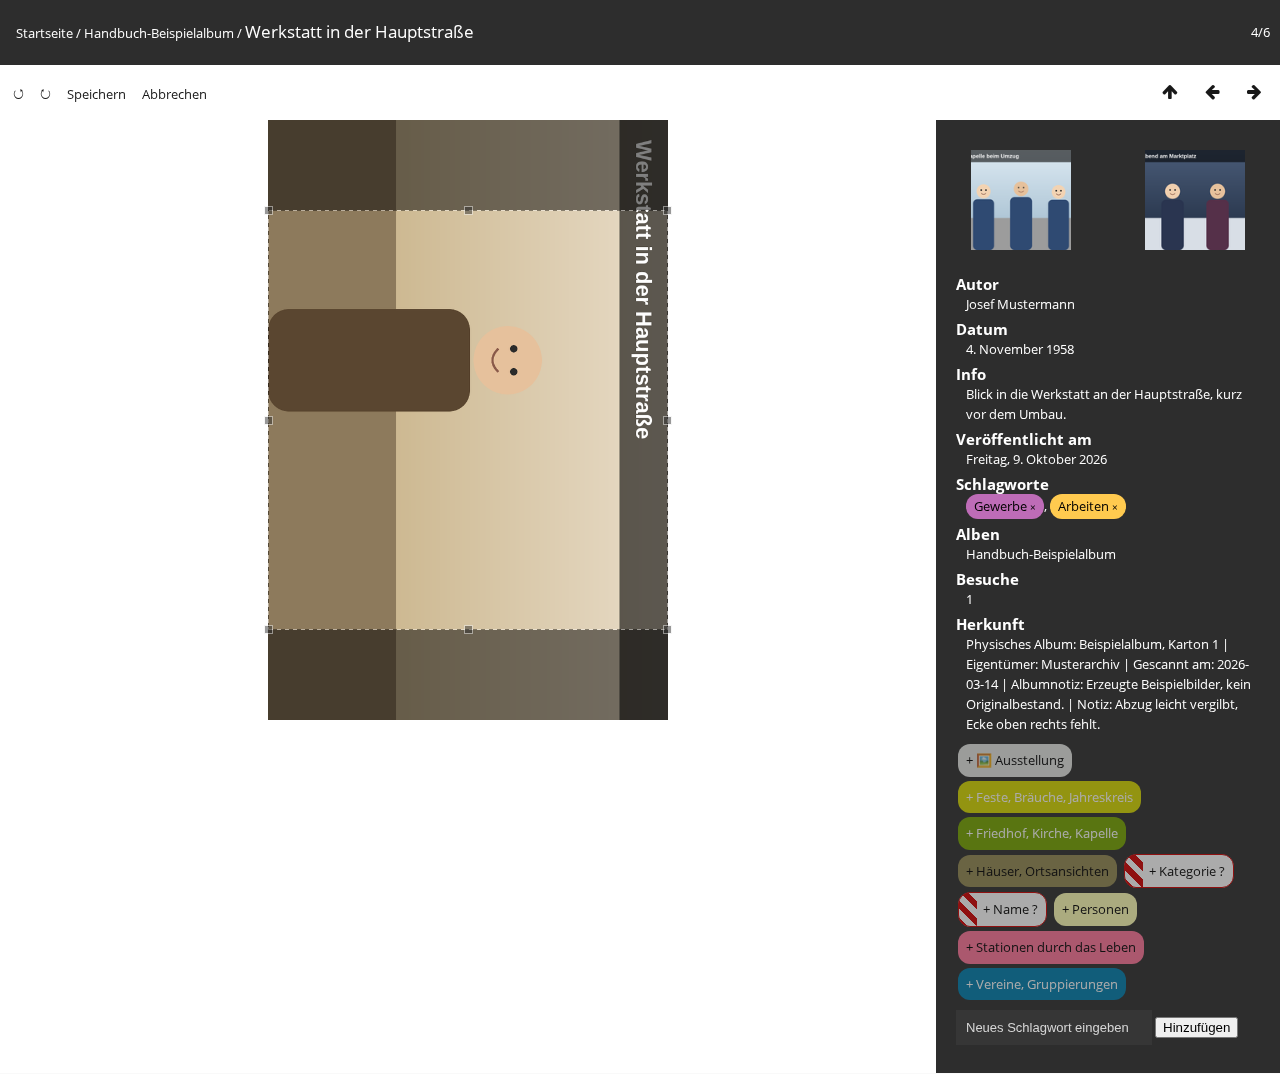
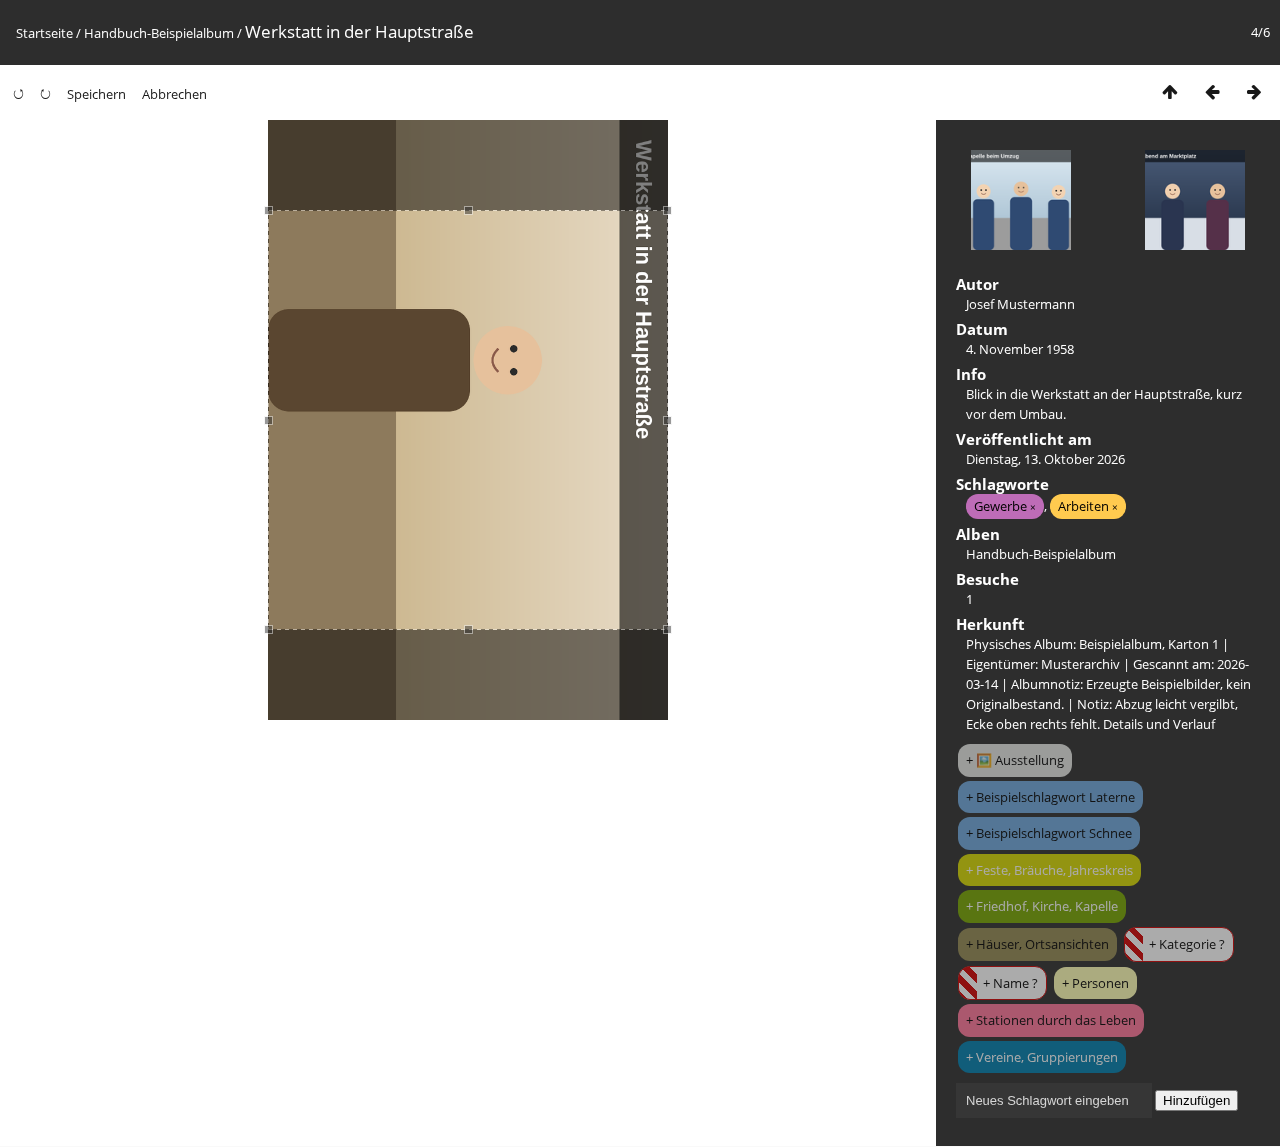
handbuch: re-shoot 26 with Drehen/Zuschneiden, 17 and 22 with the current sidebar
Shot 26 lacked the Drehen/Zuschneiden button a normal account has since
decision 0059; 07-fotoseite.html names it and links to 06-drehen.html.
17 and 22 gained photoinfo's rows and the Details und Verlauf link.
Every other re-shot image differed only by timestamps, demo badges or
churn and was reverted. Task 04 of change 2026-10-12-handbook-catch-up,
which also records tasks 04 and 05 as follow-ups in the design.

diff --git a/handbuch/07-fotoseite.html b/handbuch/07-fotoseite.html
@@ -15,9 +15,14 @@
 </p>
 
 <figure>
-  <img src="assets/screenshots/26-fotoseite-leiste.png" alt="Die Leiste über dem Foto. In der Mitte die Schaltflächen Minus, Einpassen, 100 % und Plus, rechts die Pfeile zum Blättern." />
-  <figcaption>Die Leiste über dem Foto, in der Mitte Minus, Einpassen, 100 % und Plus.</figcaption>
+  <img src="assets/screenshots/26-fotoseite-leiste.png" alt="Die Leiste über dem Foto. In der Mitte die Schaltflächen Minus, Einpassen, 100 % und Plus, daneben Drehen/Zuschneiden, rechts die Pfeile zum Blättern." />
+  <figcaption>Die Leiste über dem Foto, in der Mitte Minus, Einpassen, 100 % und Plus, daneben Drehen/Zuschneiden.</figcaption>
 </figure>
+
+<p>
+  Mit <strong>Drehen/Zuschneiden</strong> lässt sich das Foto drehen und zuschneiden, siehe
+  <a href="06-drehen.html">Foto drehen und zuschneiden</a>.
+</p>
 
 <h3>Das Foto vergrößern</h3>
 

diff --git a/docs/agents/TESTING.md b/docs/agents/TESTING.md
@@ -1428,6 +1428,7 @@ than accumulating. Nothing is marked done on prose alone.
 | 2026-10-12 | Task 03 of change 2026-10-12-handbook-catch-up: `handbuch/05-personen.html` says *Anlegen "..."* attaches an existing person of that name instead of always creating one (decision 0061); `handbuch/04-schlagworte.html`'s *Eintippen* item names the limit of 255 new tags per account in 24 hours, the message *Heute wurden schon zu viele neue Schlagworte eingegeben*, and that assigning an existing tag by name does not count. | **Checked 2026-10-12** against the code: 255 is `TYPETAGS_NEW_TAGS_PER_DAY` (`plugins/typetags/include/functions.inc.php`), the window is `occured_on > NOW() - INTERVAL 1 DAY` in `typetags_typed_tags_condition()`, the message is the `de_DE` override in `local/language/de_DE.lang.php`; `ws_typetags_image_addNewTag()` refuses only when the count is reached **and** the name does not exist, and records the counted `add` activity row only for a newly created tag. Picker: `editor.js` `renderOptions()` offers *Anlegen* whenever the typed name has no exact match in the list, and `persons_person_id_from_name()` looks the name up with no visibility filter. Witnessed once by an ad hoc integration case (copy of `VisibilityTest`, deleted after the run): a person only on a private-album photo is missing from `persons_normal`'s picker list, and `pwg.persons.addRegion` with the full name on a visible photo succeeds with one `piwigo_persons` row for that name and the region on the existing person's id; green, fixtures restored. Not kept as a test: this task touches only the handbook; decision 0061 states the by-name behaviour, but no suite case asserts it for a hidden person. |
 | 2026-10-12 | Task 01 of change 2026-10-12-handbook-catch-up: `handbuch/03-fototexte.html` subsection *Herkunft nachlesen* (how to open the read-only provenance page from the picture page's *Details und Verlauf* link and the album page's folder-icon button, what it shows, that it changes nothing), the link sentence in the Herkunft row, the pointer in `01-alben.html` and the sentence in `index.html` *Wer darf was* (decision 0064). Shots 04 (album page with the button), 11 (picture page with the link) and the new 27 (the demo photo's provenance page). Whether the text matches what a normal account sees. | **Checked 2026-10-12** by looking at shots 04, 11 and 27 from a `persons_normal` session after `seed.php --scenario=demo` and against `provenance_page.tpl` and the `de_DE` labels: *Details und Verlauf*, *Verlauf*, *Datum*, *Feld*, *Vorher*, *Nachher*, *Anlass*, *Von*, *Foto bearbeitet* and *Vom Album geerbt* appear as quoted; the album button is icon-only in modus, its title *Herkunft* (read from the DOM). *Nicht gesetzt* and *Keine Änderungen aufgezeichnet* checked in `plugins/provenance/language/de_DE/plugin.lang.php` only, the demo shows neither. The seed now records the demo photo's history as `persons_webmaster` and `--restore` deletes it. The first shot 27 showed every value white on white (skin *newspaper* colours every `dt`/`dd` white); fixed in `provenance_page.css`, witnessed by `provenance-page.spec.js` `the labels and values are readable against the page`. |
 | 2026-10-13 | Task 02 of change 2026-10-12-handbook-catch-up: `handbuch/04-schlagworte.html` subsection *Schlagwort-Gruppen ansehen* (reached through the menu entry *Schlagworte* and the link under the title bar, what a group shows, *Kein sichtbares Schlagwort*, that it changes nothing), the sentence that viewing the groups is open to every logged-in user, the `index.html` sentence (decision 0064). Shot 28, the seed's own group *Beispielgruppe* alone. Whether the text matches what a normal account sees. | **Checked 2026-10-13** by looking at shot 28 and with a DOM probe as `persons_normal`: the menu link *Schlagworte* (`#mbSpecials`), the link *Schlagwort-Gruppen* right under the title bar of `tags.php`, the group with its swatch, colour value and both demo tags. *Gestreift* and *Kein sichtbares Schlagwort* checked in `plugins/typetags/language/de_DE/plugin.lang.php` only, the demo group shows neither. `seed.php --restore` removes the group and its tags by name (another tag in the group is only ungrouped), also with no snapshot (a group and tag inserted by hand were removed); a second seed and restore worked. The demo tags also appear in shots 11, 12 and 15 of a run; those were reverted (`.claude/rules/handbook.md`). |
+| 2026-10-13 | Task 04 of change 2026-10-12-handbook-catch-up: which re-shot screenshots of a full seed/shoot/restore cycle show a changed screen. Shot 26 and the `07-fotoseite.html` alt text, caption and the sentence linking *Drehen/Zuschneiden* to `06-drehen.html`. | **Checked 2026-10-13** by comparing each re-shot image with its committed version by eye and with `compare -metric AE`. Re-committed: 26 (the bar now has *Drehen/Zuschneiden*, which a normal account has since decision 0059), 17 (the sidebar now has photoinfo's *Datum* and *Info* rows and the *Details und Verlauf* link of the Herkunft row; it carries the demo group's two `+` badges as well), 22 (the Herkunft row ends with the *Details und Verlauf* link; demo badges as well). Reverted: 19 (one sub-pixel), 20 (the index timestamp), 27 (the history timestamps), 11, 12 and 15 (demo badges and the publication date only), 01, 03, 07, 09 (churn). |
 
 ### Open — no oracle, so no test
 

diff --git a/.agents/changes/2026-10-12-handbook-catch-up/tasks/04-stale-screenshots.md b/.agents/changes/2026-10-12-handbook-catch-up/tasks/04-stale-screenshots.md
@@ -1,0 +1,43 @@
+---
+id: 04
+dependencies: []
+---
+
+# Task 04: Stale screenshots
+
+Shot 26 shows the picture page's toolbar as a normal account sees it today, and the shots that
+differed in the task 01 runs are each either re-committed with a reason or confirmed unchanged.
+
+## References
+
+* `design.md#follow-ups` (finding 5)
+* `.claude/rules/handbook.md` (seed, shoot, restore; commit a re-shoot only when its screen changed; the demo tag group's badges in shots 11, 12 and 15)
+* `handbuch/tools/shoot.js` (`SHOTS`: `26-fotoseite-leiste.png`, `17-personen-markieren.png`, `19-personen-auswahl.png`, `20-personen-verwaltung.png`, `22-drehen-rahmen.png`)
+* `handbuch/07-fotoseite.html` (shot 26, its `alt` and `figcaption`, the bar description)
+* [decision 0059](../../../../docs/agents/decisions/0059-photo-edits-are-open-to-every-logged-in-account-that-sees-the-photo.md)
+
+## Work
+
+* [x] Run the cycle: `seed.php --scenario=demo`, `shoot.js`, `seed.php --restore` (integration suites share the install: `ddev exec flock /tmp/pwg-suite.lock ...`)
+  * **Note:** One lock hold for the whole cycle, restore from an `EXIT` trap (`.agent-tests/2026-10-13-stale-screenshots/cycle.sh`; `bash -c` through `ddev exec` mangled `$?`). 28 shots written, restore removed album 13 with 6 photos.
+* [x] Compare each re-shot image with its committed version by eye. Keep 26. For 17, 19, 20 and 22 keep a shot only if its screen changed (a control, label or layout), and record the reason per shot in this file; revert every other image, including 11, 12 and 15 if they differ only by the demo group's badges
+  * **Note:** Kept:
+    * 26: *Drehen/Zuschneiden* between *+* and the heart
+    * 17: the sidebar gained photoinfo's *Datum* and *Info* rows and the Herkunft row's *Details und Verlauf* link (also carries the two demo `+` badges, acceptable per `handbook.md`)
+    * 22: the Herkunft row ends with *Details und Verlauf* (plus demo badges); the crop frame itself is unchanged
+  * Reverted: 19 (one sub-pixel, `compare -metric AE` 0.01), 20 (only the *Index zuletzt aufgebaut* timestamp), 27 (only the history timestamps), 11, 12, 15 (demo badges and publication date only), 01, 03, 07, 09 (churn)
+* [x] `07-fotoseite.html`: if the bar in 26 now shows *Drehen/Zuschneiden*, update the shot's `alt` text so it names what the image shows, and link the button to `06-drehen.html` where the bar is described, if it is not already
+  * **Note:** `alt` and `figcaption` name *Drehen/Zuschneiden*. The page describes the bar only through the figure, so a new sentence right after it links the button to `06-drehen.html`.
+* [x] Add a dated entry to the hand-check ledger in `docs/agents/TESTING.md`: which shots were re-committed and why
+  * **Note:** Row *2026-10-13, Task 04* after task 02's.
+
+## Verification
+
+* [x] `ddev exec php handbuch/tools/check.php` passes and reports 28 screenshots, all referenced
+  * **Note:** `OK  8 pages, 70 references, 28 screenshots all referenced, 8 admin routes resolve`.
+* [x] Shot 26 shows the toolbar with *Drehen/Zuschneiden*, as shot 11 does
+  * **Note:** Checked by viewing old and new shot 26 side by side, and new shot 11.
+* [x] Every re-committed shot has a recorded reason; `git status` shows no other screenshot
+  * **Note:** `git status`: only 17, 22 and 26 among the screenshots.
+* [x] After `--restore` the install is back to its 5 albums and 105 photos, with no *Beispielgruppe* left
+  * **Note:** Verified via SQL after the cycle and task 05's suite runs: 5 albums, 105 photos, 0 groups named *Beispielgruppe*.

diff --git a/.agents/changes/2026-10-12-handbook-catch-up/design.md b/.agents/changes/2026-10-12-handbook-catch-up/design.md
@@ -143,3 +143,15 @@ seed.php --scenario=demo  ->  shoot.js  ->  seed.php --restore  ->  check.php
 
 Commit a re-shot image only when its screen changed (04, 11, 27, 28); revert the churn of the
 others (`handbook.md`: a re-shoot is reproducible in content, not byte-for-byte).
+
+## Follow-ups
+
+Found while implementing tasks 01 to 03 (2026-10-13), outside their scope:
+
+| # | Finding | Source |
+|---|---|---|
+| 5 | `26-fotoseite-leiste.png` lacks the *Drehen/Zuschneiden* button a normal account has had since [decision 0059](../../../docs/agents/decisions/0059-photo-edits-are-open-to-every-logged-in-account-that-sees-the-photo.md); shot 11 (re-shot in task 01) shows it. Shots 17, 19, 20 and 22 also differed after the task 01 runs and were reverted unexamined | task 01 notes |
+| 6 | No suite case asserts that *Anlegen "..."* with the full name of a person who is only on photos the account cannot see attaches that existing person ([decision 0061](../../../docs/agents/decisions/0061-persons-list-and-tagging-screen-respect-album-permissions.md)); task 03 witnessed it once with an ad hoc copy of `VisibilityTest`, then deleted it | task 03 notes, `docs/agents/TESTING.md` ledger row of task 03 |
+
+Decision on 6: keep it as a regression test in `plugins/persons/tests/Integration/VisibilityTest.php`,
+next to the cases that leave such a person out of the list, rather than in the hand-check ledger.
